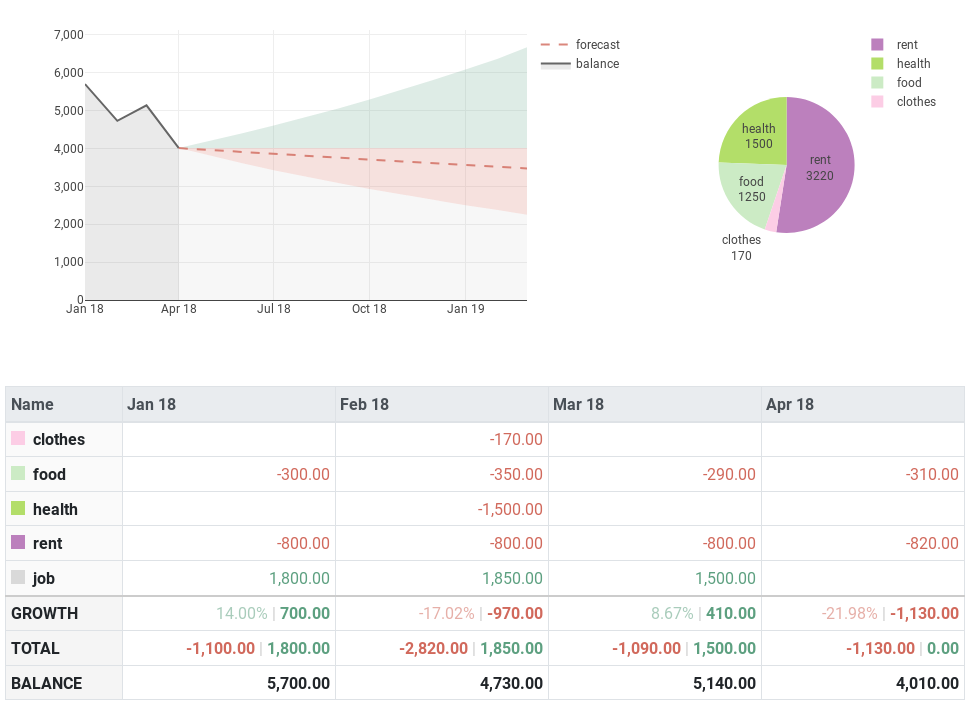
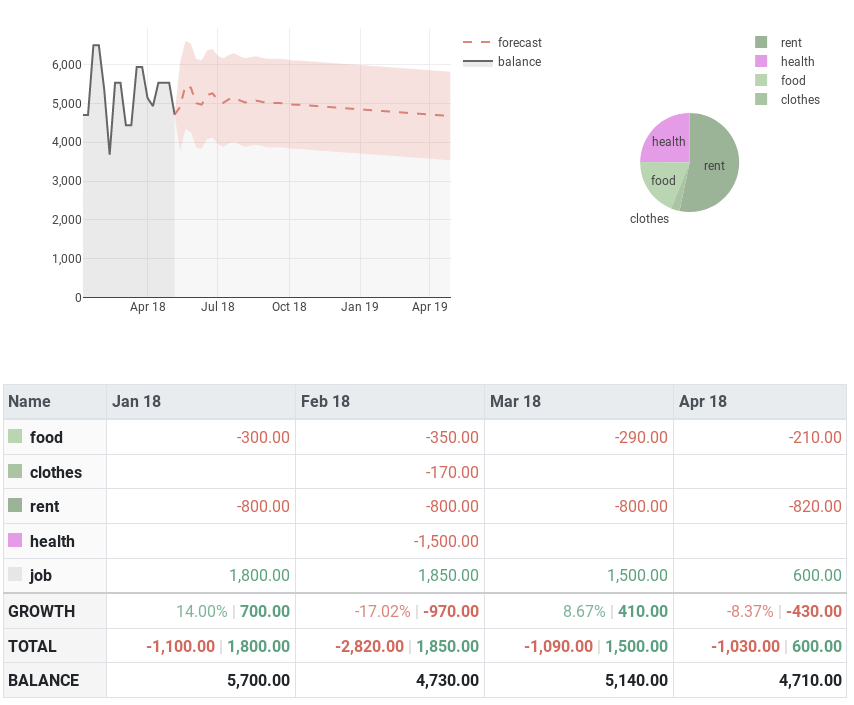
use ARIMA forecasting, allow color grouping

diff --git a/dashboard.py b/dashboard.py
@@ -1,9 +1,10 @@
-from config import BALANCE, BALANCE_DATE, TRANSACTIONS, COLORS
+from config import BALANCE, BALANCE_DATE, GROUPS, COLOR_SCHEME, TRANSACTIONS_FILE, DATE_FORMAT
 
 from subprocess import Popen
 import numpy as np
 import pandas as pd
 from typing import List
+from pyramid.arima import auto_arima
 
 import dash
 import dash_core_components as dcc
@@ -12,18 +13,62 @@ from dash_html_components import Th, Thead, Td, Div, H1, Table, Tr, Span
 import plotly
 from plotly.graph_objs import Bar, Layout, Figure, Pie, Scatter
 
+TRANSACTIONS = pd.read_csv(TRANSACTIONS_FILE)
+TRANSACTIONS['date'] = pd.to_datetime(TRANSACTIONS['date'], format=DATE_FORMAT)
+TRANSACTIONS = TRANSACTIONS[TRANSACTIONS['date'] > BALANCE_DATE]
+
+def colors_and_names():
+    # every color extends to a range between 0.6 and 0.95 of its brightness
+    color_steps = np.linspace(0.9, 0.7, num=max(map(len, GROUPS.values())) + 1)
+    colors = [[[int(v * (256/max(rgb)) * cs) for v in rgb] for cs in color_steps]
+               for rgb in COLOR_SCHEME]
+
+    res = {}
+    for i, (group, names) in enumerate(GROUPS.items()):
+        r,g,b = colors[i % len(colors)][0]
+        res[group] = (r,g,b,1.0)
+        for j, name in enumerate(names,1):
+            if name not in res:
+                r,g,b = colors[i % len(colors)][j]
+                res[name] = (r,g,b,1.0)
+
+    # names without groups
+    left_names = set(TRANSACTIONS['name']).difference(res.keys())
+    for i, name in enumerate(left_names, len(GROUPS.keys())):
+        r,g,b = colors[i % len(colors)][0]
+        res[name] = (r,g,b,1.0)
+
+    names = [n for n in res.keys() if n in TRANSACTIONS['name'].unique()]
+    res['EXP'] = (209,105,92,1.0) # expense color
+    res['INC'] = (93,160,128,1.0) # income color
+    return res, names
+
+
+def color(name: str, alpha=None, values=False):
+    r,g,b,a = COLORS[name]
+    new_alpha = a if alpha is None else min(1,max(0,alpha))
+    if values:
+        return (r,g,b,new_alpha)
+    else:
+        return f'rgba({r},{g},{b},{new_alpha})'
+
+
+COLORS, NAMES = colors_and_names()
+
 
 def transactions_monthly() -> pd.DataFrame:
     """
     Aggregate transactions to monthly table
     The indices are months and columns are transaction names
     """
+
     monthly = TRANSACTIONS.groupby([TRANSACTIONS['date'].dt.year,
-                                    TRANSACTIONS['date'].dt.month, 
+                                    TRANSACTIONS['date'].dt.month,
                                     TRANSACTIONS['name']]).sum()
     monthly.index = pd.MultiIndex.from_tuples([(pd.datetime(y,m,1), name)
                                                for y,m,name in monthly.index])
     monthly = monthly['amount'].unstack().fillna(0)
+
     return monthly
 
 
@@ -32,9 +77,9 @@ def monthly_html_table() -> Div:
     Build pretty monthly transaction table with names as indices and months as columns
     """
     df = transactions_monthly()
-    expenses = [name for name in df.columns if df[name].sum() < 0]
-    income = [name for name in df.columns if df[name].sum() > 0]
     df.index = [s.strftime('%b %y') for s in df.index]
+    expenses = [n for n in NAMES if n in df.columns and df[n].sum() <= 0]
+    income = [n for n in NAMES if n in df.columns and df[n].sum() > 0]
     df = df[expenses + income].T
 
     curr = ' {:,.2f}'.format
@@ -53,9 +98,9 @@ def monthly_html_table() -> Div:
     # name rows
     name_rows = []
     for cat, row in df.iterrows():
-        cells = [Th([circle(COLORS[cat]), cat], scope='row', style={'background': '#fafafa'})]
+        cells = [Th([circle(color(cat)), cat], scope='row', style={'background': '#fafafa'})]
         for cell in row:
-            style = {'color': COLORS['INC'] if cell >= 0 else COLORS['EXP'],
+            style = {'color': color('INC') if cell >= 0 else color('EXP'),
                      'text-align': 'right'}
             cells.append(Td(curr(cell or '') if cell != 0 else '', style=style))
         name_rows.append(Tr(cells))
@@ -67,8 +112,8 @@ def monthly_html_table() -> Div:
 
     growth_row = [Th('GROWTH', style={'background': '#f5f5f5', 'border-top': 'solid 2px #CCC'})]
     for sr, sa in zip(saving_rel, saving_abs):
-        sa = Span(curr(sa), style={'color': COLORS['INC'] if sr >= 0 else COLORS['EXP'], 'font-weight': 'bold'})
-        sr = Span(f'{perc(sr)}', style={'color': COLORS['INC'] + '88' if sr >= 0 else COLORS['EXP'] + '88'})
+        sa = Span(curr(sa), style={'color': color('INC') if sr >= 0 else color('EXP'), 'font-weight': 'bold'})
+        sr = Span(f'{perc(sr)}', style={'color': color('INC', alpha=0.8) if sr >= 0 else color('EXP', alpha=0.8)})
         sep = Span('  |  ', style={'color': '#CCC'})
         growth_row.append(Td([sr, sep, sa], style={'border-top': 'solid 2px #CCC', 'text-align': 'right'}))
     growth_row = Tr(growth_row)
@@ -77,8 +122,8 @@ def monthly_html_table() -> Div:
     # total row
     total_row = [Th('TOTAL', style={'background': '#f5f5f5'})]
     for exp, inc in zip(df.loc[expenses].sum(), df.loc[income].sum()):
-        sexp = Span(curr(exp), style={'color': COLORS['EXP'], 'font-weight': 'bold'})
-        sinc = Span(curr(inc), style={'color': COLORS['INC'], 'font-weight': 'bold'})
+        sexp = Span(curr(exp), style={'color': color('EXP'), 'font-weight': 'bold'})
+        sinc = Span(curr(inc), style={'color': color('INC'), 'font-weight': 'bold'})
         sep = Span('  |  ', style={'color': '#CCC'})
         total_row.append(Td([sexp, sep, sinc],
                             style={'text-align': 'right'}))
@@ -96,53 +141,52 @@ def monthly_html_table() -> Div:
                className='table-responsive-sm')
 
 
-def forecast_traces(balances, last_month, many_months=12) -> List[Scatter]:
+def forecast_traces(balances, weeks=52) -> List[Scatter]:
     """
-    Forecast next months based on balance history
-    Exponential moving medians are used to forecast
+    Forecast next weeks based on balance history with ARIMA
     """
-    last_balance = balances[-1]
-    X_forecast = list(pd.date_range(last_month, periods=many_months, freq='MS'))
 
-    growths_monthly = np.divide(balances, [BALANCE] + balances[:-1])
-    # value recent ratios more with exponential moving median model
-    growth_medians = pd.Series(growths_monthly).ewm(alpha=0.3).mean(how='median')
-    low, median, high = growth_medians.quantile([0.25,0.5,0.75])
+    last_balance_date = balances.index.max()
+    last_balance = balances.loc[last_balance_date]
+    X_forecast = list(pd.date_range(last_balance_date, periods=weeks, freq='W'))
 
-    def forecast(growth_factor):
-        start = balances[-1]/growth_factor # first forecast should be just last balance
-        return start * np.repeat(growth_factor, many_months).cumprod()
+    model = auto_arima(
+        balances, trend=[1, 1],
+        error_action='ignore', suppress_warnings=True
+    )
+    forecast = model.predict(n_periods=weeks)
 
-    # next 12 months forecast
+    # error estimation
+    model_error = np.std(model.resid())
+    sampling_error = np.sqrt(balances.var() / len(balances))
+    forecast_error = 2 * np.sqrt(model_error**2 + sampling_error**2)
+
+    forecast_upper = forecast + forecast_error
+    forecast_lower = forecast - forecast_error
+    bad_forecast = np.min(forecast) < balances.loc[last_balance_date]
+
     balances_forecast = Scatter(
-        name='forecast', x=X_forecast, y=forecast(median),
+        name='forecast', x=X_forecast, y=[last_balance] + list(forecast),
         mode='lines',
-        line={'dash': 'dash', 'color': COLORS['INC'] if median > 1 else COLORS['EXP']},
+        line={'dash': 'dash', 'color': color('EXP') if bad_forecast else color('INC')},
         opacity=0.8
     )
-    balances_forecast_max = Scatter(
-        name='', x=X_forecast, y=forecast(high if last_balance > 0 else low),
-        fill='tonexty', fillcolor=(COLORS['INC'] if high > 1 else COLORS['EXP']) + '33',
+    balances_forecast_upper = Scatter(
+        name='', x=X_forecast, y=[last_balance] + list(forecast_upper),
+        fill='tonexty', fillcolor=(color('EXP' if bad_forecast else 'INC', alpha=0.2)),
         line={'color': 'transparent'},
         showlegend=False
     )
-    steady_line = Scatter(
-        name='', x=X_forecast, y=forecast(1),
-        fill='tonexty', fillcolor=COLORS['EXP'] + '33' if 1 > low else '#0000',
-        line={'color': 'transparent'},
-        showlegend=False
-    )
-    balances_forecast_min = Scatter(
-        name='', x=X_forecast, y=forecast(high if last_balance < 0 else low),
-        fill='tozeroy', fillcolor='#8881' if 1 > low else '#0000',
+    balances_forecast_lower = Scatter(
+        name='', x=X_forecast, y=[last_balance] + list(forecast_lower),
+        fill='tozeroy', fillcolor='#8881',
         line={'color': 'transparent'},
         showlegend=False
     )
 
     return [
-        balances_forecast_min,
-        steady_line,
-        balances_forecast_max,
+        balances_forecast_lower,
+        balances_forecast_upper,
         balances_forecast,
     ]
 
@@ -151,29 +195,32 @@ def forecast_traces(balances, last_month, many_months=12) -> List[Scatter]:
 
 def top_html_graphs() -> Div:
     """
-    Build balance line graph and expense pie chart
+    Build weekly balance line graph and expense pie chart
     """
     monthly = transactions_monthly()
-    expenses = [name for name in monthly.columns if monthly[name].sum() < 0]
+    expenses = [n for n in NAMES if monthly[n].sum() <= 0]
     pie = Pie(
-        labels=monthly[expenses].columns,
+        labels=expenses,
         values=[round(monthly[name].sum() * -1) for name in expenses],
-        textinfo='value+label',
-        marker={'colors': [COLORS[name] for name in expenses]},
+        textinfo='label',
+        marker={'colors': [color(name) for name in expenses]},
     )
 
-    X_months_history = list(monthly.index)
+    balances = TRANSACTIONS['amount']
+    balances.index = TRANSACTIONS['date']
+    balances = balances.groupby(pd.Grouper(freq='1w')).sum()
+    # fill missing weeks with last balance
+    balances = balances.asfreq('W').fillna(0).cumsum() + BALANCE
 
-    balances = list(monthly.sum(axis=1).cumsum() + BALANCE)
     balances_history = Scatter(
         name='balance',
-        x=X_months_history, y=balances,
+        x=balances.index, y=balances,
         fill='tozeroy', fillcolor='#6662',
         line={'color': '#666'}, mode='lines',
     )
 
     balance_traces = [balances_history]
-    balance_traces += forecast_traces(balances, X_months_history[-1], 12)
+    balance_traces += forecast_traces(balances, weeks=52)
 
     layout = Layout(
         yaxis={'tickformat': ',.0f', 'rangemode': 'tozero'},

diff --git a/config.py b/config.py
@@ -2,8 +2,6 @@
 Config for personal finance dashboard
 """
 
-import pandas as pd
-
 # path to transactions csv with "date,name,amount" as header
 TRANSACTIONS_FILE = 'transactions.csv'
 # used to read all dates e.g. in transactions file
@@ -12,22 +10,18 @@ DATE_FORMAT = '%d.%m.%y'
 # account balance in your currency
 BALANCE = 5000
 # date of when the account balance was observed
-BALANCE_DATE = '31.12.17'
+BALANCE_DATE = '01.01.17'
 
-# read transactions
-TRANSACTIONS = pd.read_csv(TRANSACTIONS_FILE)
-TRANSACTIONS['date'] = pd.to_datetime(TRANSACTIONS['date'], format=DATE_FORMAT)
-TRANSACTIONS = TRANSACTIONS[TRANSACTIONS['date'] > BALANCE_DATE]
+# similar names
+GROUPS = {
+    'living':  ['food', 'clothes', 'rent']
+}
 
-# color scheme
-qual_set3 = ['rgb(204,235,197)', 'rgb(188,128,189)', 'rgb(217,217,217)',
-             'rgb(252,205,229)', 'rgb(179,222,105)', 'rgb(253,180,98)',
-             'rgb(128,177,211)', 'rgb(251,128,114)', 'rgb(190,186,218)',
-             'rgb(255,255,179)', 'rgb(141,211,199)']
-
-names = TRANSACTIONS['name'].unique()
-COLORS = {name: qual_set3[i % len(qual_set3)] for i, name in enumerate(names)}
-COLORS['EXP'] = '#d1695c' # expense color
-COLORS['INC'] = '#5da080' # income color
-
+# rgb values of color scheme
+COLOR_SCHEME = [
+    (204,235,197), (188,128,189), (217,217,217),
+    (252,205,229), (179,222,105), (253,180,98),
+    (128,177,211), (251,128,114), (190,186,218),
+    (255,255,179), (141,211,199)
+]
 

diff --git a/README.md b/README.md
@@ -1,13 +1,13 @@
 # Personal Finance Dashboard
 
-This program uses plotly's [dash](https://github.com/plotly/dash) library to visualize personal finances. It draws all its data from a single CSV file where transactions are recorded and then does some plots, tables and forecasts.
+This program uses plotly's [dash](https://github.com/plotly/dash) library to visualize personal finances. It draws all its data from a single CSV file where all transactions are recorded and then shown on the dashboard. The balance plot uses ARIMA to forecast.
 
 ![screenshot](screenshot.png)
 
 ## Usage
 
 ### Install Dependencies
-* Math: numpy, pandas
+* Math: numpy, pandas, pyramid-arima
 * Dashboard: dash, dash-renderer, dash-html-components, dash-core-components
 * Plotting: plotly
 
